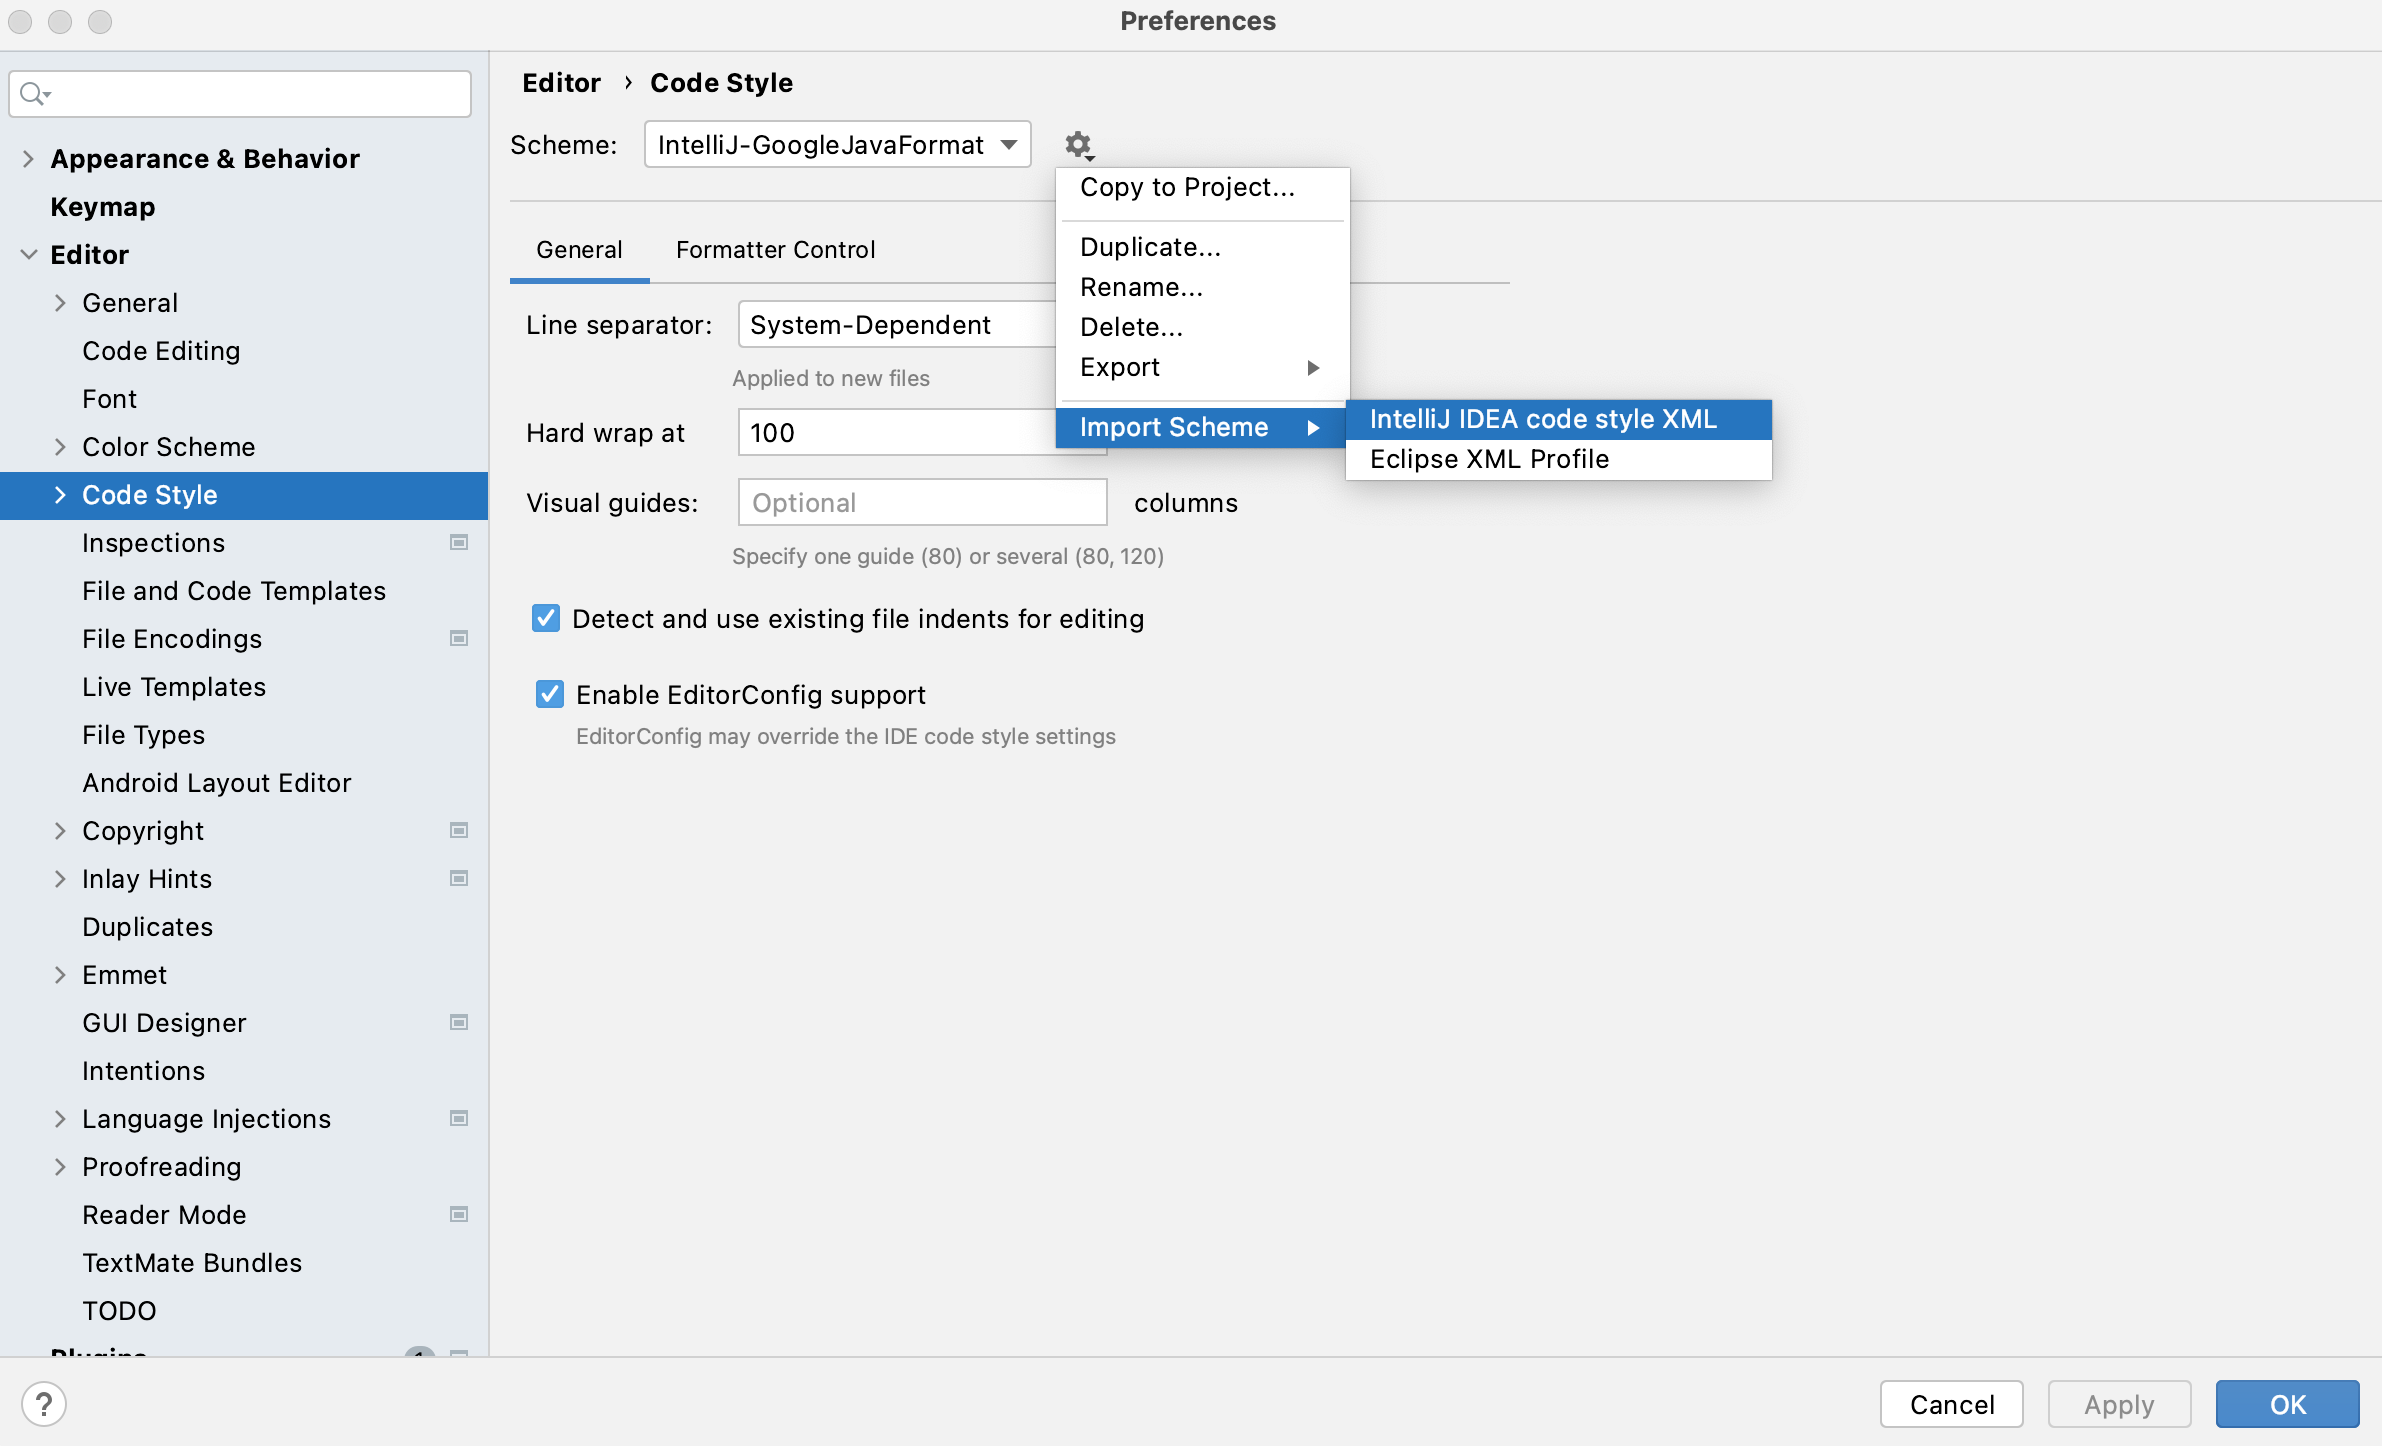
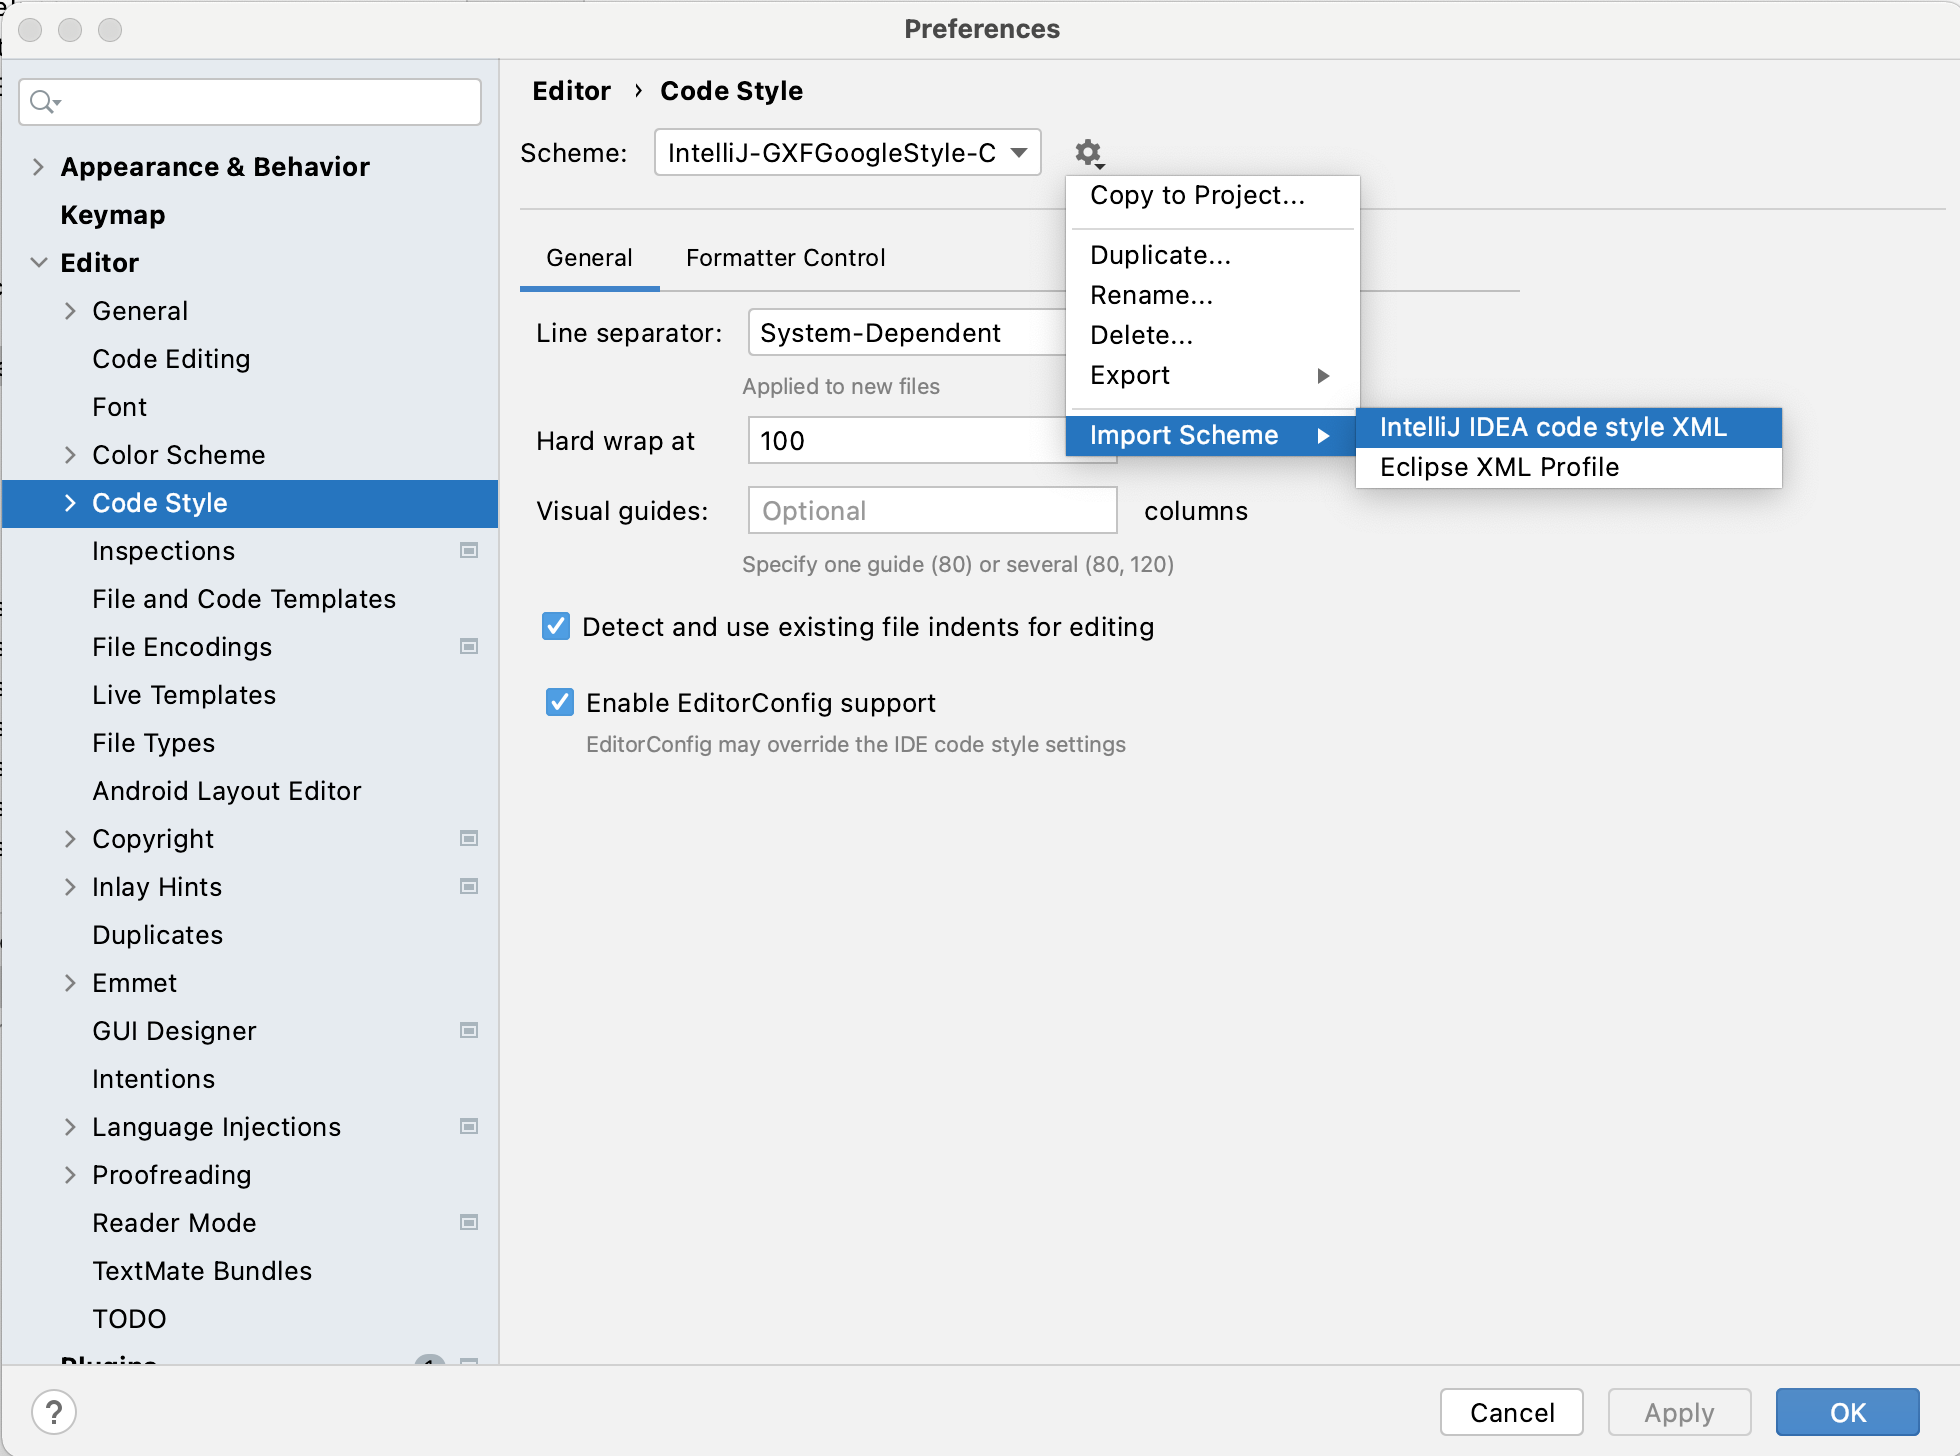
Rename format files

diff --git a/code-format-settings/intellij/README.md b/code-format-settings/intellij/README.md
@@ -6,9 +6,9 @@ The files in this directory are used to configure Intellij.
    ![Alt text](screenshots/1.%20install%20plugin.png)
 2. Enable the java-google-format plugin
    ![Alt text](screenshots/2.%20enable%20plugin.png)
-3. Import the Codestyle format file: [code-format/IntelliJ-GoogleJavaFormat-CodeStyle.xml](code-format/IntelliJ-GoogleJavaFormat-CodeStyle.xml)
+3. Import the Codestyle format file: [code-format/IntelliJ-GXFGoogleStyle-CodeStyle.xml](code-format/IntelliJ-GXFGoogleStyle-CodeStyle.xml)
    ![Alt text](screenshots/3.%20import%20codestyle.png)
-4. Import the inspection format file: [code-format/IntelliJ-GoogleJavaFormat-Inspection.xml](code-format/IntelliJ-GoogleJavaFormat-Inspection.xml)
+4. Import the inspection format file: [code-format/IntelliJ-GXFGoogleStyle-Inspection.xml](code-format/IntelliJ-GXFGoogleStyle-Inspection.xml)
    ![Alt text](screenshots/4.%20import%20Inspection.png)
 5. Add the copyright header: [code-templates/copyright_header.txt](code-templates/copyright_header.txt)
    ![Alt text](screenshots/5.%20add%20copyright.png)

diff --git a/code-format-settings/README.md b/code-format-settings/README.md
@@ -1,0 +1,22 @@
+# Differences in IntelliJ and Eclipse formatting
+
+1. Code cleanup in IntelliJ removes the last semicolumn in a enum, and Eclipse does not do this.
+Both code-styles are fine! Eclipse will not add the semi column again
+
+Valid style enum with semicolumn:
+```
+public enum MethodAccessModeType {
+    NO_ACCESS,
+    ACCESS,
+    AUTHENTICATED_ACCESS;
+}
+```
+
+Valid style enum without semicolumn:
+```
+public enum MethodAccessModeType {
+    NO_ACCESS,
+    ACCESS,
+    AUTHENTICATED_ACCESS
+}
+```
